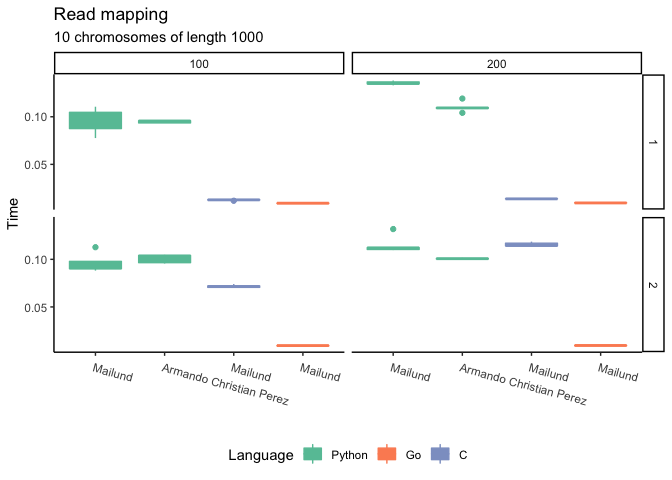
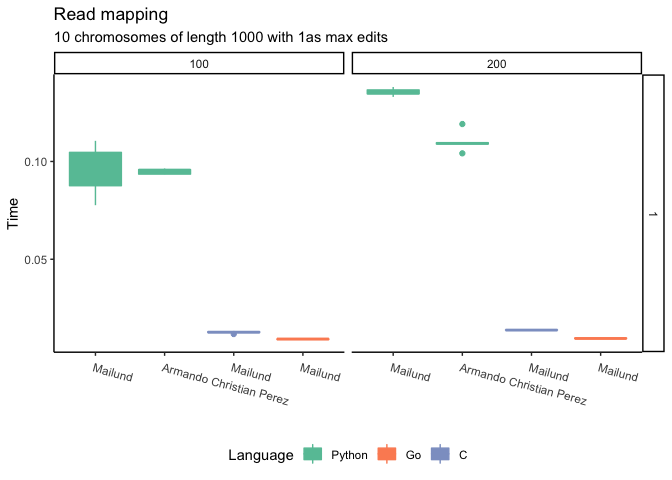
now sorting on subsets (and plotting on subsets too). Close #11

diff --git a/README.md b/README.md
@@ -43,4 +43,4 @@ readmappers that pass the Github Actions tests.
 
 ## Mapping performance
 
-![](README_files/figure-markdown_strict/read_map-1.png)![](README_files/figure-markdown_strict/read_map-2.png)![](README_files/figure-markdown_strict/read_map-3.png)
+![](README_files/figure-markdown_strict/read_map-1.png)![](README_files/figure-markdown_strict/read_map-2.png)![](README_files/figure-markdown_strict/read_map-3.png)![](README_files/figure-markdown_strict/read_map-4.png)![](README_files/figure-markdown_strict/read_map-5.png)![](README_files/figure-markdown_strict/read_map-6.png)
